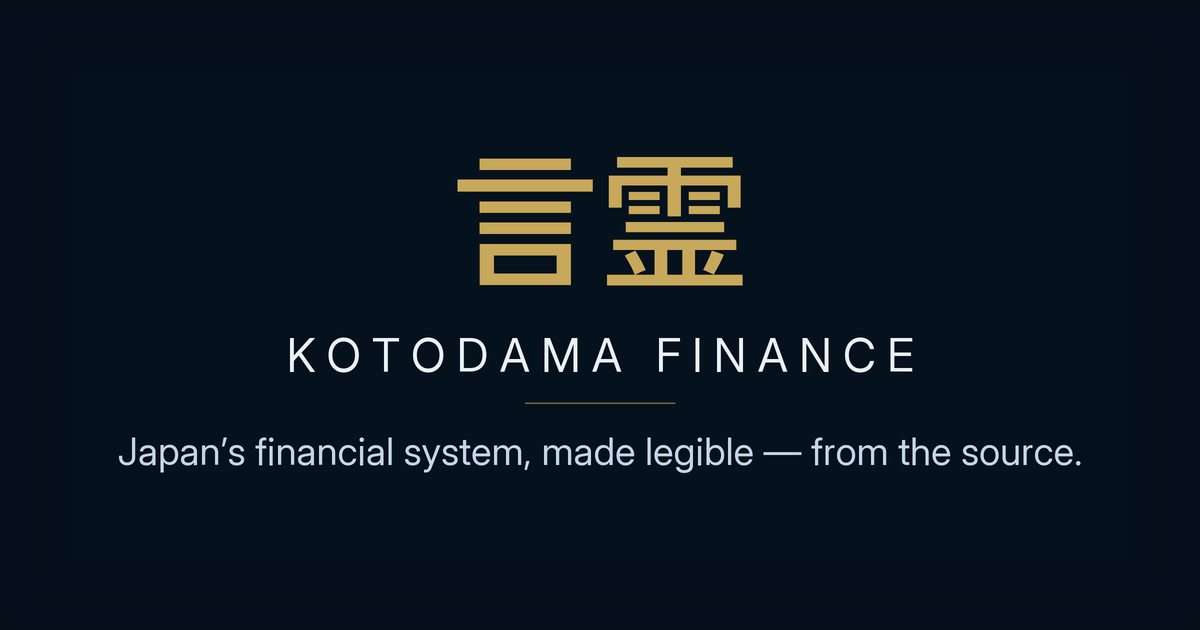
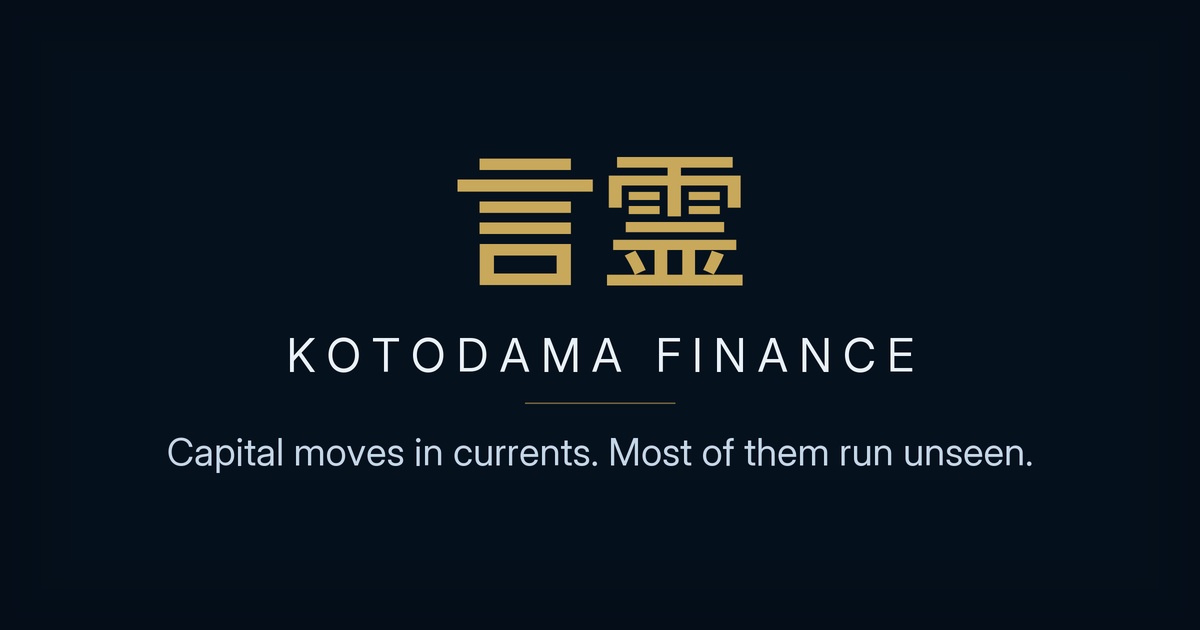
Poner la capa de metadatos al dia con el hero redactado
El <head> de la portada y la tarjeta social seguian describiendo el hero
anterior. Es el modo de fallo que estas dos cosas tienen de fabrica: no se
ven al mirar la pagina, asi que sobreviven al reemplazo del texto que
describen y despues se leen como si fueran actuales.

- <title> y description/og:description DERIVADOS del hero, no escritos
  aparte. Decian «Japan's financial system, made legible» y «An open, free
  reading of how capital actually moves...», que ya no es lo que dice la
  pagina. Queda anotado en el propio <head> que si el hero cambia, cambian
  los dos.
- La bajada de la og-image pasa a ser el titular del hero, literal, y la
  imagen se regenera y se vuelve a sellar. Verificada a 500 px, que es el
  ancho al que se ve en un feed y la medida que manda.
- og:image:alt describia «El cubo de seis caras», y la tarjeta no lleva el
  cubo desde que paso a ser solo tipografia. Ademas estaba en castellano en
  un sitio en ingles: era la unica cadena asi fuera de los TODO, y se
  publica al compartir cualquier enlace. Ahora describe la imagen que
  existe, en las diez paginas, por script para que sea identica por
  construccion.

check-structure y check-modes en verde.

Changed region(s): [[0.0925, 0.6937, 0.8942, 0.754]]

diff --git a/index.html b/index.html
@@ -3,8 +3,14 @@
 <head>
 <meta charset="UTF-8">
 <meta name="viewport" content="width=device-width, initial-scale=1.0">
-<title>Kotodama Finance — Japan's financial system, made legible</title>
-<meta name="description" content="An open, free reading of how capital actually moves through Japan — built entirely from primary sources, traceable to the document.">
+<!-- Título y description DERIVADOS del hero, no escritos aparte: son el mismo
+     texto del autor, recortado a la medida del buscador. Si el hero cambia,
+     cambian los dos. La versión anterior («Japan's financial system, made
+     legible» / «An open, free reading of how capital actually moves…») quedó
+     del hero viejo y sobrevivió a su reemplazo, que es justo el modo de fallo:
+     el <head> no se ve al mirar la página. -->
+<title>Kotodama Finance — Capital moves in currents</title>
+<meta name="description" content="The numbers are public and still opaque. Kotodama Finance reads them the other way: openly, from the primary source, in plain language. We begin with Japan.">
 <link rel="canonical" href="https://kotodamafinance.com/">
 <!-- Open Graph: la tarjeta que se ve al compartir el enlace en un chat o una
      red. Sin esto el enlace viaja como una línea de texto pelada.
@@ -14,11 +20,11 @@
 <meta property="og:type" content="website">
 <meta property="og:url" content="https://kotodamafinance.com/">
 <meta property="og:title" content="Kotodama Finance">
-<meta property="og:description" content="An open, free reading of how capital actually moves through Japan — built entirely from primary sources, traceable to the document.">
+<meta property="og:description" content="The numbers are public and still opaque. Kotodama Finance reads them the other way: openly, from the primary source, in plain language. We begin with Japan.">
 <meta property="og:image" content="https://kotodamafinance.com/og-image.png">
 <meta property="og:image:width" content="1200">
 <meta property="og:image:height" content="630">
-<meta property="og:image:alt" content="El cubo de seis caras de Kotodama Finance">
+<meta property="og:image:alt" content="Kotodama Finance: the 言霊 mark in gold above the brand name, on deep navy.">
 <!-- Sin esto X muestra una miniatura cuadrada en vez de la tarjeta ancha. -->
 <meta name="twitter:card" content="summary_large_image">
 <!-- Iconos. El .ico existe porque el navegador pide /favicon.ico haya o no

diff --git a/hajime/index.html b/hajime/index.html
@@ -18,7 +18,7 @@
 <meta property="og:image" content="https://kotodamafinance.com/og-image.png">
 <meta property="og:image:width" content="1200">
 <meta property="og:image:height" content="630">
-<meta property="og:image:alt" content="El cubo de seis caras de Kotodama Finance">
+<meta property="og:image:alt" content="Kotodama Finance: the 言霊 mark in gold above the brand name, on deep navy.">
 <!-- Sin esto X muestra una miniatura cuadrada en vez de la tarjeta ancha. -->
 <meta name="twitter:card" content="summary_large_image">
 <!-- Sin esto X muestra una miniatura cuadrada en vez de la tarjeta ancha. -->

diff --git a/kamon/index.html b/kamon/index.html
@@ -18,7 +18,7 @@
 <meta property="og:image" content="https://kotodamafinance.com/og-image.png">
 <meta property="og:image:width" content="1200">
 <meta property="og:image:height" content="630">
-<meta property="og:image:alt" content="El cubo de seis caras de Kotodama Finance">
+<meta property="og:image:alt" content="Kotodama Finance: the 言霊 mark in gold above the brand name, on deep navy.">
 <!-- Sin esto X muestra una miniatura cuadrada en vez de la tarjeta ancha. -->
 <meta name="twitter:card" content="summary_large_image">
 <!-- Sin esto X muestra una miniatura cuadrada en vez de la tarjeta ancha. -->

diff --git a/kizuna/index.html b/kizuna/index.html
@@ -18,7 +18,7 @@
 <meta property="og:image" content="https://kotodamafinance.com/og-image.png">
 <meta property="og:image:width" content="1200">
 <meta property="og:image:height" content="630">
-<meta property="og:image:alt" content="El cubo de seis caras de Kotodama Finance">
+<meta property="og:image:alt" content="Kotodama Finance: the 言霊 mark in gold above the brand name, on deep navy.">
 <!-- Sin esto X muestra una miniatura cuadrada en vez de la tarjeta ancha. -->
 <meta name="twitter:card" content="summary_large_image">
 <!-- Sin esto X muestra una miniatura cuadrada en vez de la tarjeta ancha. -->

diff --git a/musubi/index.html b/musubi/index.html
@@ -18,7 +18,7 @@
 <meta property="og:image" content="https://kotodamafinance.com/og-image.png">
 <meta property="og:image:width" content="1200">
 <meta property="og:image:height" content="630">
-<meta property="og:image:alt" content="El cubo de seis caras de Kotodama Finance">
+<meta property="og:image:alt" content="Kotodama Finance: the 言霊 mark in gold above the brand name, on deep navy.">
 <!-- Sin esto X muestra una miniatura cuadrada en vez de la tarjeta ancha. -->
 <meta name="twitter:card" content="summary_large_image">
 <!-- Sin esto X muestra una miniatura cuadrada en vez de la tarjeta ancha. -->

diff --git a/sugao/index.html b/sugao/index.html
@@ -18,7 +18,7 @@
 <meta property="og:image" content="https://kotodamafinance.com/og-image.png">
 <meta property="og:image:width" content="1200">
 <meta property="og:image:height" content="630">
-<meta property="og:image:alt" content="El cubo de seis caras de Kotodama Finance">
+<meta property="og:image:alt" content="Kotodama Finance: the 言霊 mark in gold above the brand name, on deep navy.">
 <!-- Sin esto X muestra una miniatura cuadrada en vez de la tarjeta ancha. -->
 <meta name="twitter:card" content="summary_large_image">
 <!-- Sin esto X muestra una miniatura cuadrada en vez de la tarjeta ancha. -->

diff --git a/tosei/index.html b/tosei/index.html
@@ -18,7 +18,7 @@
 <meta property="og:image" content="https://kotodamafinance.com/og-image.png">
 <meta property="og:image:width" content="1200">
 <meta property="og:image:height" content="630">
-<meta property="og:image:alt" content="El cubo de seis caras de Kotodama Finance">
+<meta property="og:image:alt" content="Kotodama Finance: the 言霊 mark in gold above the brand name, on deep navy.">
 <!-- Sin esto X muestra una miniatura cuadrada en vez de la tarjeta ancha. -->
 <meta name="twitter:card" content="summary_large_image">
 <!-- Sin esto X muestra una miniatura cuadrada en vez de la tarjeta ancha. -->

diff --git a/disclaimer/index.html b/disclaimer/index.html
@@ -18,7 +18,7 @@
 <meta property="og:image" content="https://kotodamafinance.com/og-image.png">
 <meta property="og:image:width" content="1200">
 <meta property="og:image:height" content="630">
-<meta property="og:image:alt" content="El cubo de seis caras de Kotodama Finance">
+<meta property="og:image:alt" content="Kotodama Finance: the 言霊 mark in gold above the brand name, on deep navy.">
 <!-- Sin esto X muestra una miniatura cuadrada en vez de la tarjeta ancha. -->
 <meta name="twitter:card" content="summary_large_image">
 <!-- Iconos. El .ico existe porque el navegador pide /favicon.ico haya o no

diff --git a/method/index.html b/method/index.html
@@ -18,7 +18,7 @@
 <meta property="og:image" content="https://kotodamafinance.com/og-image.png">
 <meta property="og:image:width" content="1200">
 <meta property="og:image:height" content="630">
-<meta property="og:image:alt" content="El cubo de seis caras de Kotodama Finance">
+<meta property="og:image:alt" content="Kotodama Finance: the 言霊 mark in gold above the brand name, on deep navy.">
 <!-- Sin esto X muestra una miniatura cuadrada en vez de la tarjeta ancha. -->
 <meta name="twitter:card" content="summary_large_image">
 <!-- Iconos. El .ico existe porque el navegador pide /favicon.ico haya o no

diff --git a/torii/index.html b/torii/index.html
@@ -18,7 +18,7 @@
 <meta property="og:image" content="https://kotodamafinance.com/og-image.png">
 <meta property="og:image:width" content="1200">
 <meta property="og:image:height" content="630">
-<meta property="og:image:alt" content="El cubo de seis caras de Kotodama Finance">
+<meta property="og:image:alt" content="Kotodama Finance: the 言霊 mark in gold above the brand name, on deep navy.">
 <!-- Sin esto X muestra una miniatura cuadrada en vez de la tarjeta ancha. -->
 <meta name="twitter:card" content="summary_large_image">
 <!-- Iconos. El .ico existe porque el navegador pide /favicon.ico haya o no

diff --git a/tools/make-og-image.py b/tools/make-og-image.py
@@ -156,7 +156,12 @@ def componer():
         a = d.textbbox((0, 0), txt, font=fnt)
         return a[3] - a[1], a[1]
 
-    LINEA = "Japan’s financial system, made legible — from the source."
+    # LINEA es el TITULAR DEL HERO, literal — no una bajada escrita aparte.
+    # Si el hero cambia, esto cambia con él y hay que regenerar: la tarjeta es
+    # un archivo, no una vista, así que se queda vieja sin que nada se rompa.
+    # Ya pasó: sobrevivió al reemplazo del hero diciendo «Japan's financial
+    # system, made legible — from the source.», que era el hero anterior.
+    LINEA = "Capital moves in currents. Most of them run unseen."
     h_ja, off_ja = alto("言霊", ja)
     h_marca, off_marca = alto("KOTODAMA FINANCE", marca)
     h_baj, off_baj = alto(LINEA, bajada)
